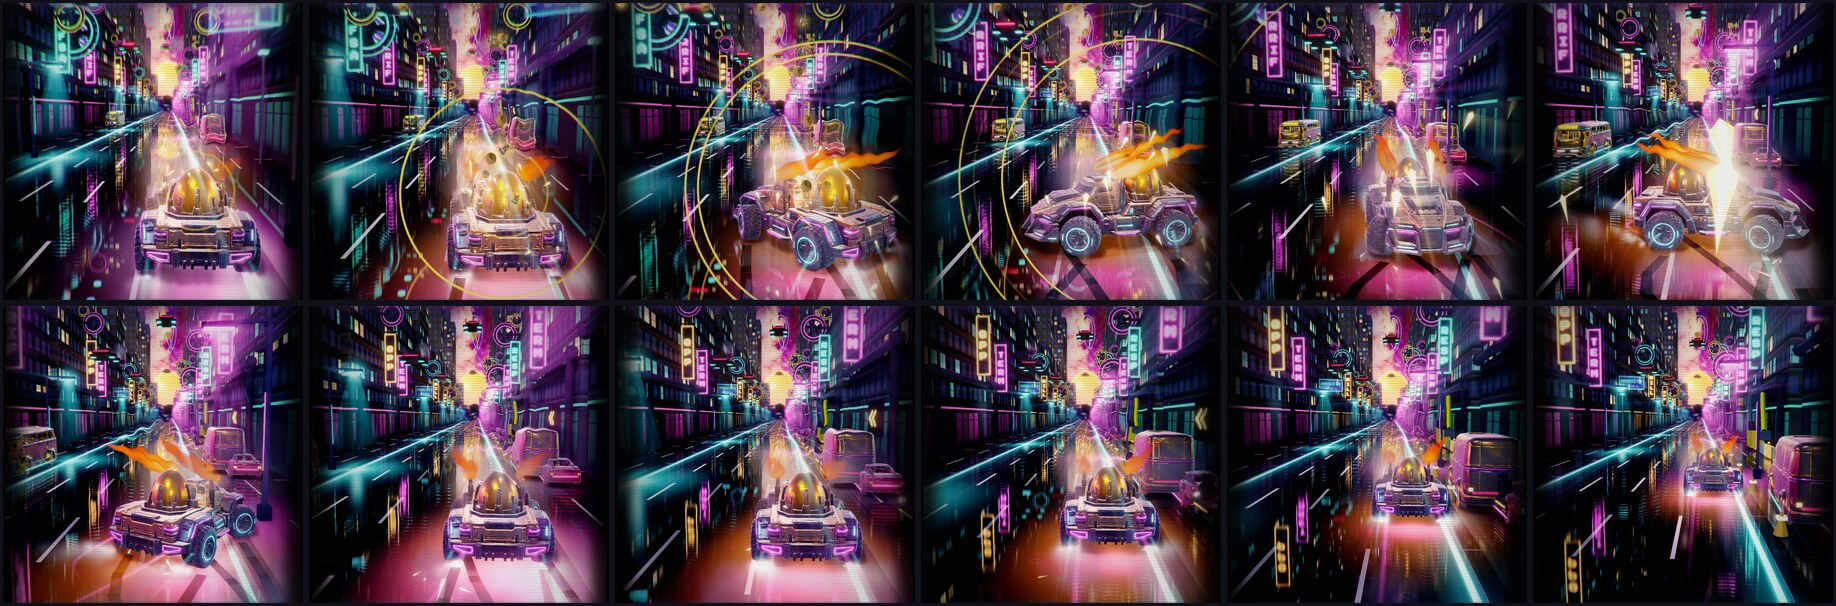
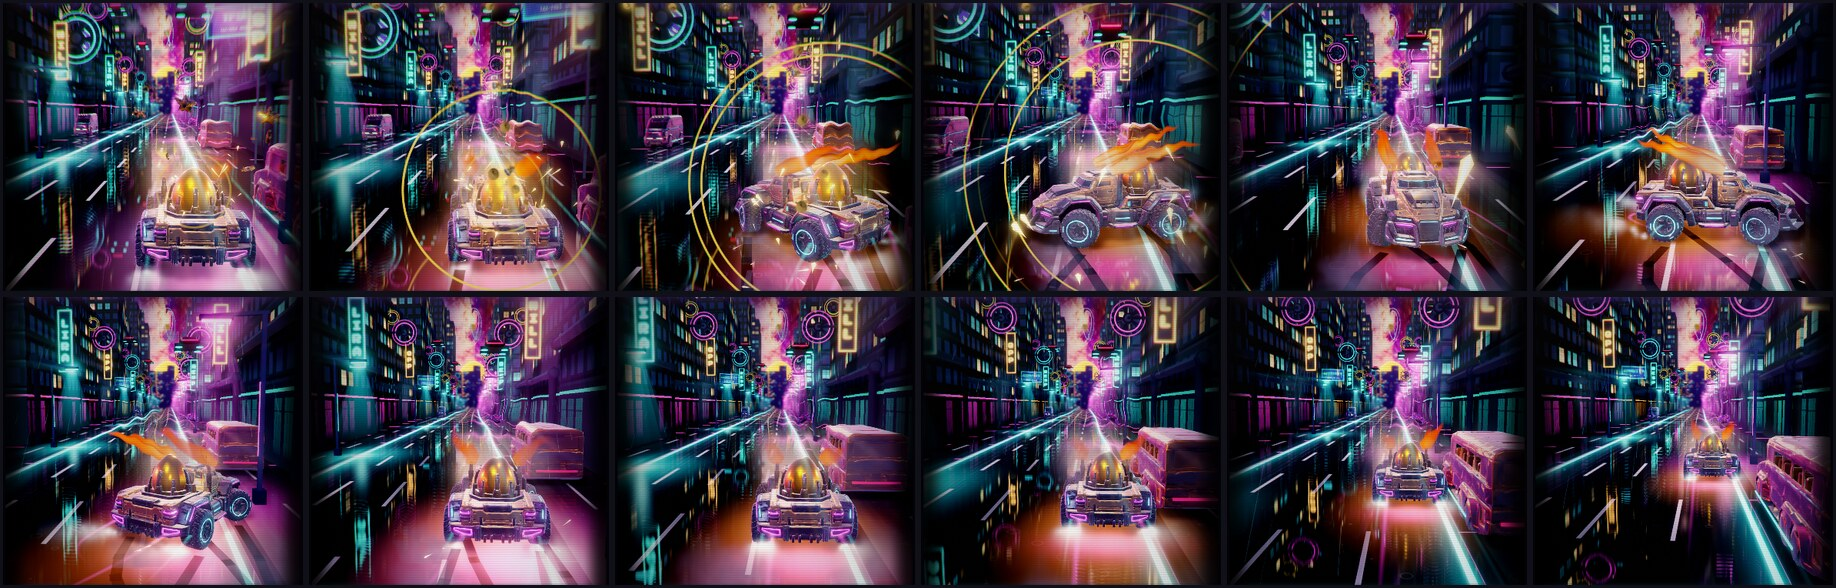
Captures of Nest Egg Run's and Boss Rush's new pieces, and three placements fixed from them
The racer's shield and heart came up behind the lane badges (drawn over everything): now low at the
rig's flank. Boss Rush's reward fell below the picture, behind the answers: now thrown from over the
fallen boss, toward the player, under the result's plate. The racer's 'rivals' part forces each event
just after a gate (no badges up) and answers right. Strips at --dpr 1 (the machine was saturated):
racer 09, 14, 16, 19, 19b, 20, 21, 22; boss 13, 14, 15. Full regression IDENTICAL from disk and
served, sequence ALL 13 STEPS OK.

Claude-Session: https://claude.ai/code/session_01SXN4PWw2h7NprrScNwTTGU

diff --git a/arcade/src/js/21f-racerstage.js b/arcade/src/js/21f-racerstage.js
@@ -304,8 +304,9 @@ class RacerStage {
     Sound.sfx("debris", pan, { delay: 0.32, vol: 0.7 });
     if (left === 1) g.show.wait(0.55, () => { if (!g.unmounted && g.state !== "over") Sound.say("WARNING"); });
     // a crystal heart comes up by the rig, on the side away from the blow, cracks and shatters as the life goes (heard
-    // as the heart_lost above)
-    if (g.iconFX) g.iconFX.shatter("heart", rig.centre(new THREE.Vector3()).add(this._u.set(-sd * 2.3, 2.1, 0.4)), { size: 1.2, face: g.camera, turn: sd * 0.25, hold: 0.05, crack: 0.08, onBreak: (q) => kit.sparks(q, 0xff4fd8, { n: quiet ? 6 : 14, speed: 8, life: 0.45, len: 0.5, w: 0.05, gravity: 6, k: 1.6 }) });
+    // as the heart_lost above). (Low, beside its flank: higher up it would stand behind the lane badges, which are drawn
+    // over everything.)
+    if (g.iconFX) g.iconFX.shatter("heart", rig.centre(new THREE.Vector3()).add(this._u.set(-sd * 2.3, 0.75, 0.9)), { size: 1.2, face: g.camera, turn: sd * 0.25, hold: 0.05, crack: 0.08, onBreak: (q) => kit.sparks(q, 0xff4fd8, { n: quiet ? 6 : 14, speed: 8, life: 0.45, len: 0.5, w: 0.05, gravity: 6, k: 1.6 }) });
     this.setLow(left <= 0 ? 2 : left === 1 ? 1 : 0);
   }
   // a wrong lane with a policy in hand: the policy takes the blow, and is seen to
@@ -337,8 +338,9 @@ class RacerStage {
     VFX.hitStop(2);
     this.speedTo(0.7, 4); g.show.wait(0.5, () => { if (g.state !== "over") this.speedTo(this.cruise(), 1.2); });
     this.policyGone();
-    // the policy's shield comes up on the rig's side and breaks as the shell takes the blow (heard as the shield_down below)
-    if (g.iconFX) g.iconFX.shatter("shield", this._u.copy(c).add(this._w.set(sd * 2.0, 1.6, -0.3)), { size: 1.3, face: g.camera, turn: -sd * 0.3, hold: 0.04, crack: 0.06, onBreak: (q) => kit.sparks(q, RSTAGE.MINT, { n: quiet ? 6 : 14, speed: 9, life: 0.4, len: 0.6, w: 0.05, gravity: 4, k: 1.6 }) });
+    // the policy's shield comes up on the rig's side and breaks as the shell takes the blow (heard as the shield_down
+    // below). (Low, at its flank: higher up it would stand behind the lane badges, which are drawn over everything.)
+    if (g.iconFX) g.iconFX.shatter("shield", this._u.copy(c).add(this._w.set(sd * 2.3, 0.35, 1.0)), { size: 1.4, face: g.camera, turn: -sd * 0.3, hold: 0.04, crack: 0.06, onBreak: (q) => kit.sparks(q, RSTAGE.MINT, { n: quiet ? 6 : 14, speed: 9, life: 0.4, len: 0.6, w: 0.05, gravity: 4, k: 1.6 }) });
     Sound.sfx("impact_reject", pan, { vol: 0.55, rate: 0.9 });
     Sound.sfx("impact_shield", pan);
     Sound.sfx("crash_glass", pan, { delay: 0.03, vol: 0.6 });

diff --git a/arcade/tools/scenarios/racer-run.js b/arcade/tools/scenarios/racer-run.js
@@ -207,21 +207,20 @@ module.exports = async (cap) => {
   // ---- the rival rigs and the chaser (violet, chrome, a silver egg), a streak tier's bolt, a milestone's stars
   if (has("rivals")) {
     await set({ crashes: 0, insurance: 0 });
+    // (each forced just after a gate, its explanation held up: while a question is up the road's cars slip away from
+    // under the lane badges, and on a phone a car in the far lane is off the picture until it draws level)
     const event = async (id, name, wait, every) => {
-      await ready(30, 0.2);
-      await cap.answer(1);
-      await page(() => { window.__arcade.Scenes.cur.lockT = 9; });
-      await cap.fast(10);
-      await page((e) => { const s = window.__arcade.Scenes.cur; s.gp = Math.min(s.gp, 0.2); s.world.director.force(e); }, id);
+      await ready(30, 0.3);
+      await drive("R", 2);
+      await sheet();
+      await page((e) => { const s = window.__arcade.Scenes.cur; if (s.quiz.holdAuto) s.quiz.holdAuto(); s.world.director.force(e); }, id);
       await cap.fast(wait);
       await strip(name, 6, every);
-      await page(() => { const s = window.__arcade.Scenes.cur; s.lockT = 0.01; });
-      await sheet();
-      await cap.fast(30);
+      await cap.fast(20);
     };
-    await event("rival", "19-rival-rig", 70, 40);
-    await event("rival", "19b-rival-rig2", 70, 40);
-    await event("chase", "20-chase", 36, 18);
+    await event("rival", "19-rival-rig", 80, 30);
+    await event("rival", "19b-rival-rig2", 80, 30);
+    await event("chase", "20-chase", 30, 15);
     await ready(30, 0.3);
     await page(() => { const A = window.__arcade, s = A.Scenes.cur; s.run.streak = 2; A.Hype.level = 0; });
     await drive("R", 2);

diff --git a/arcade/src/js/22f-bossstage.js b/arcade/src/js/22f-bossstage.js
@@ -751,9 +751,12 @@ class BossStage {
       HudFX.reward(g.el, from, to, { n: 5, kind: "coin", color: COLORS.gold, clear: ".qpanel", dur: 430, gap: 12 });
       if (sc) this.count = { el: sc, a: parseInt(sc.textContent.replace(/\D/g, ""), 10) || 0, b: g.score, t: -0.42, dur: 0.8 }; // (a value already decided, shown as it arrives)
       if (g.iconFX) { // gold stars and egg coins thrown out of the blast toward the player, with the HUD's own
-        const dir = this._u.copy(g.camera.position).sub(p).normalize().add(this._w.set(0, 0.6, 0)).normalize();
-        g.iconFX.burst("star", p, { n: 7, size: big ? 0.8 : 0.65, speed: 10, dir, life: 1.0, gravity: 5, gap: 0.03 });
-        g.iconFX.burst("coin", p, { n: 6, size: big ? 0.7 : 0.58, speed: 9, dir, life: 1.0, gravity: 6, gap: 0.035 });
+        // (from over the fallen boss, not its hips: lying there they are below the picture, behind the answers. Mostly
+        // toward the player: they grow as they come, under the result's plate)
+        const at = p.clone(); at.y += 2.4;
+        const dir = this._u.copy(g.camera.position).sub(at).normalize().add(this._w.set(0, 0.2, 0)).normalize();
+        g.iconFX.burst("star", at, { n: 7, size: big ? 1.6 : 1.35, speed: 7, dir, life: 1.25, gravity: 3, gap: 0.03 });
+        g.iconFX.burst("coin", at, { n: 6, size: big ? 1.4 : 1.2, speed: 6.5, dir, life: 1.25, gravity: 3.5, gap: 0.035 });
       }
       Sound.sfx("reward", 0, { vol: 0.9 });
     });

diff --git a/arcade/docs/combat-pass/unused/STATUS-games.md b/arcade/docs/combat-pass/unused/STATUS-games.md
@@ -7,20 +7,21 @@ Rules added mid-task by the coordinator (performance first): no new lights or sh
 wherever they are added or updated); at most 2 allies and 3 brood on screen; short-lived props pooled with the scene (made once,
 hidden when done, freed with the scene, nothing made when an event fires); `04-gfx.js` and `04b-pipeline.js` not touched; the
 music mechanism kept simple; the announcer sparse (FINAL WAVE only for the wave that reaches the wormhole gate, in place of its
-number; BOSS INCOMING once a run).
+number; BOSS INCOMING once a run). After c90972b/7c522a3 the Risk Blaster files belong to the lead: fixes there are reported, not made.
 
 | Item | State |
 |---|---|
-| 4. Music variants (Sound.take, play(name, again), Assets.wants) | done, committed; checked served (alternates, one file per visit) |
-| Shared 3D props kit (`08e-propfx.js`), QuizGame.iconFX/propTier, Hype hook | done, committed |
-| 1. Risk Blaster: laser_heavy, shell, FINAL WAVE, BOSS INCOMING | done, committed |
-| 1. Risk Blaster: shield, bolt, star props; allies; brood (`20m-blasterescort.js`) | done, committed; capture running |
-| 2. Nest Egg Run: shield (insured), heart (crash), bolt (tier), stars (milestone, retirement) | done, committed |
-| 2. Nest Egg Run: rival-rig, rival-rig2 (rival event, in turn), chaser (chase event, on the road), violet/silver repaint | done, committed |
-| 3. Boss Rush: heart (heart lost), stars + coins (death), bolt (tier) | done, committed |
-| 3. Boss Rush: the boss's own "game over" (Sound.sayAs; 1-4 adam, 5-8 brian, 9-11 and the Proctor charlie) | done, committed |
-| Regressions from disk (blaster, racer, boss) | IDENTICAL; served blaster IDENTICAL; served smoke test of all three clean |
-| Captures (blaster, racer, boss), full regression both ways, sequence | todo |
+| 4. Music variants (Sound.take, play(name, again), Assets.wants) | done; checked served (alternates, one file per visit) |
+| Shared props kit (`08e-propfx.js`), QuizGame.iconFX/propTier/mirror, Hype hook | done |
+| 1. Risk Blaster: laser_heavy, shell, FINAL WAVE, BOSS INCOMING, shield, bolt, stars, allies, brood | done; captures 01-04, 05, 17c, 22, 23 |
+| 2. Nest Egg Run: shield, heart, bolt, stars; rival rigs and chaser repainted | done; captures 09, 14, 16, 19, 19b, 20, 21, 22 |
+| 3. Boss Rush: heart, bolt, stars and coins; the boss's own "game over" | done; captures 13, 14, 15 |
+| Regressions both ways (full), sequence | IDENTICAL both ways, no console errors; ALL 13 STEPS OK |
 
-Fixed on the way: the props field was first called `props`, which is Nest Egg Run's own roadside mesh: the racer then called
-`update` on a mesh every frame (an error a frame, from disk too) until it was renamed `iconFX` (commit 7c522a3).
+Open, for the lead (Risk Blaster files): the allies' entrance offsets put them outside a portrait phone's view (suggested
+offsets sent); the brood read pale at their size (halve their rim). Captures after the first Blaster ones were taken at
+--dpr 1: the machine was saturated by the performance runs and dpr 2 frames passed the 30 s screenshot limit.
+
+Fixed on the way: the props field was first called `props`, Nest Egg Run's own roadside mesh (an error a frame, from disk too)
+until renamed `iconFX`; the Blaster's props took no sky reflection (now via pano.mirror); the racer's shield and heart stood
+behind the lane badges (now low at the rig's flank); Boss Rush's reward fell below the picture (now thrown from over the boss).
